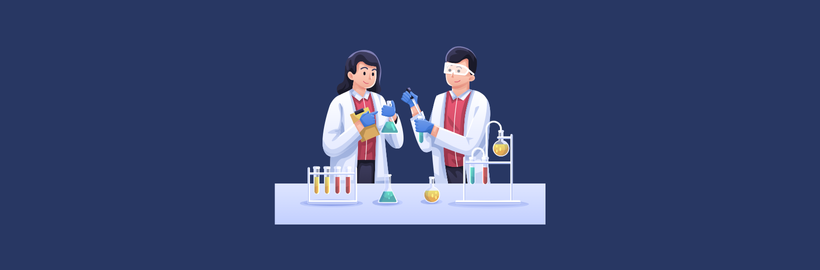
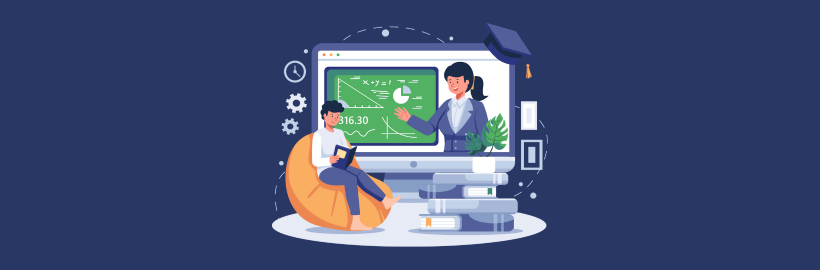
update UI and add enhancements
- Changed NewsImage on login page
- Added "clear input" function on login page
- Updated NewsDetail page to support clickable links
- Added emoji support on Vote page

Changed region(s): [[0.3354, 0.0889, 0.6707, 0.9185]]

diff --git a/src/pages/Login.vue b/src/pages/Login.vue
@@ -365,13 +365,16 @@ async function handleCreateAccount() {
 
 async function handleLogin() {
   try {
+    // ล้าง error ก่อน
     errors.value = {};
 
+    // ตรวจสอบ validation ด้วย yup
     await loginSchema.validate(
       { loginEmail: loginEmail.value, loginPassword: loginPassword.value },
       { abortEarly: false }
     );
 
+    // เรียก API login
     const response = await fetch("http://localhost:8080/api/users/login", {
       method: "POST",
       headers: { "Content-Type": "application/json" },
@@ -394,8 +397,11 @@ async function handleLogin() {
     if (result.success) {
       if (result.visible === false || result.visible === 0) {
         alert("Your account is currently inactive. You cannot log in.");
+        loginEmail.value = "";
+        loginPassword.value = "";
         return;
       }
+
       const userData = {
         id: result.id,
         name: result.name,
@@ -407,23 +413,29 @@ async function handleLogin() {
 
       if (result.role === "ADMIN") {
         alert(`🌟Welcome Admin, ${result.name}!`);
-        window.location.href = "/home";
       } else {
         alert(`🌟Welcome, ${result.name}! You’ve logged in successfully.`);
-        window.location.href = "/home";
       }
+      window.location.href = "/home";
     } else {
       alert(result.message || "Invalid email or password");
+      loginEmail.value = "";
+      loginPassword.value = "";
     }
   } catch (err) {
     if (err.inner) {
       err.inner.forEach((e) => (errors.value[e.path] = e.message));
+      loginEmail.value = "";
+      loginPassword.value = "";
     } else {
       console.error("Unexpected Error:", err);
       alert("Unable to log in right now. Please check your connection.");
+      loginEmail.value = "";
+      loginPassword.value = "";
     }
   }
 }
+
 </script>
 
 <style>

diff --git a/src/pages/NewsDetail.vue b/src/pages/NewsDetail.vue
@@ -90,10 +90,11 @@ onMounted(async () => {
 const images = import.meta.glob("../assets/NewsImages/*.{png,jpg,jpeg}", { eager: true });
 
 function getImageSrc(_image?: string, id?: number): string {
-  if (!id) return getFallbackImage();
+  if (!_image) return getFallbackImage();
+
+  if (_image.startsWith("http")) return _image;
 
   const idFilename = `${id}.png`;
-
   for (const path in images) {
     if (path.endsWith("/" + idFilename)) {
       const img = (images as Record<string, any>)[path];
@@ -103,6 +104,7 @@ function getImageSrc(_image?: string, id?: number): string {
 
   return getFallbackImage();
 }
+
 
 function getFallbackImage(): string {
   for (const path in images) {

diff --git a/src/pages/Vote.vue b/src/pages/Vote.vue
@@ -98,7 +98,7 @@ async function submitVote() {
     );
 
     if (res.status === 200 || res.status === 201) {
-      alert("✅ Thank you! Your vote has been recorded.");
+      alert("🌟 Thank you! Your vote has been recorded.");
 
       await fetchNewsById();
 
